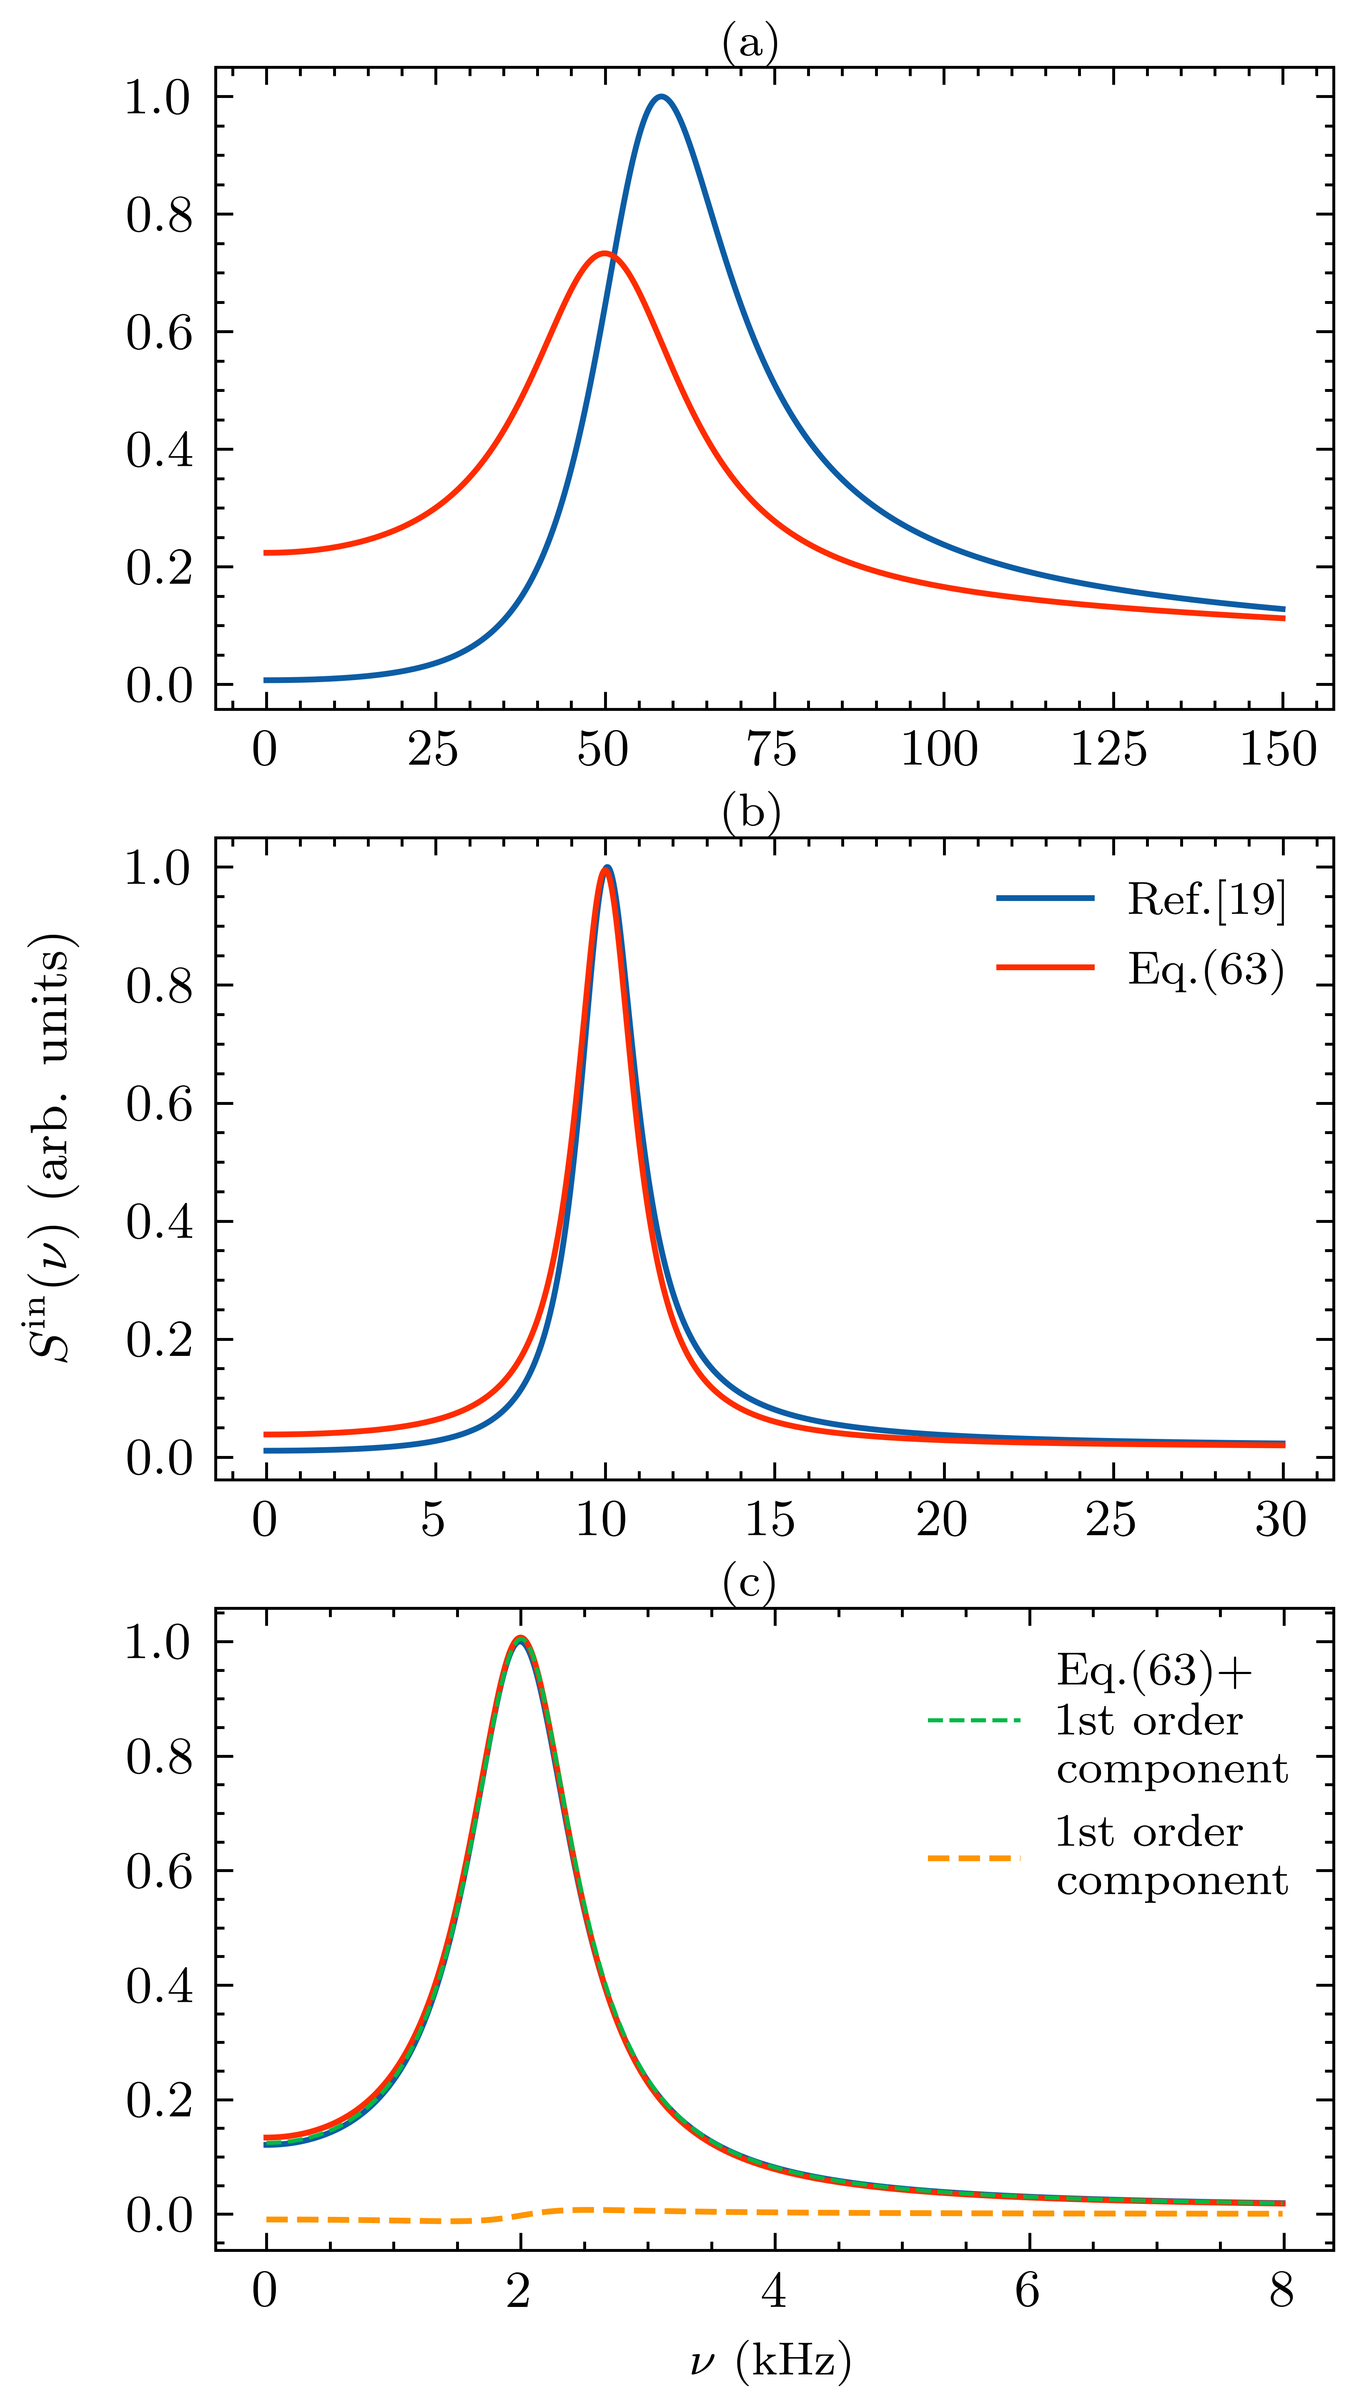
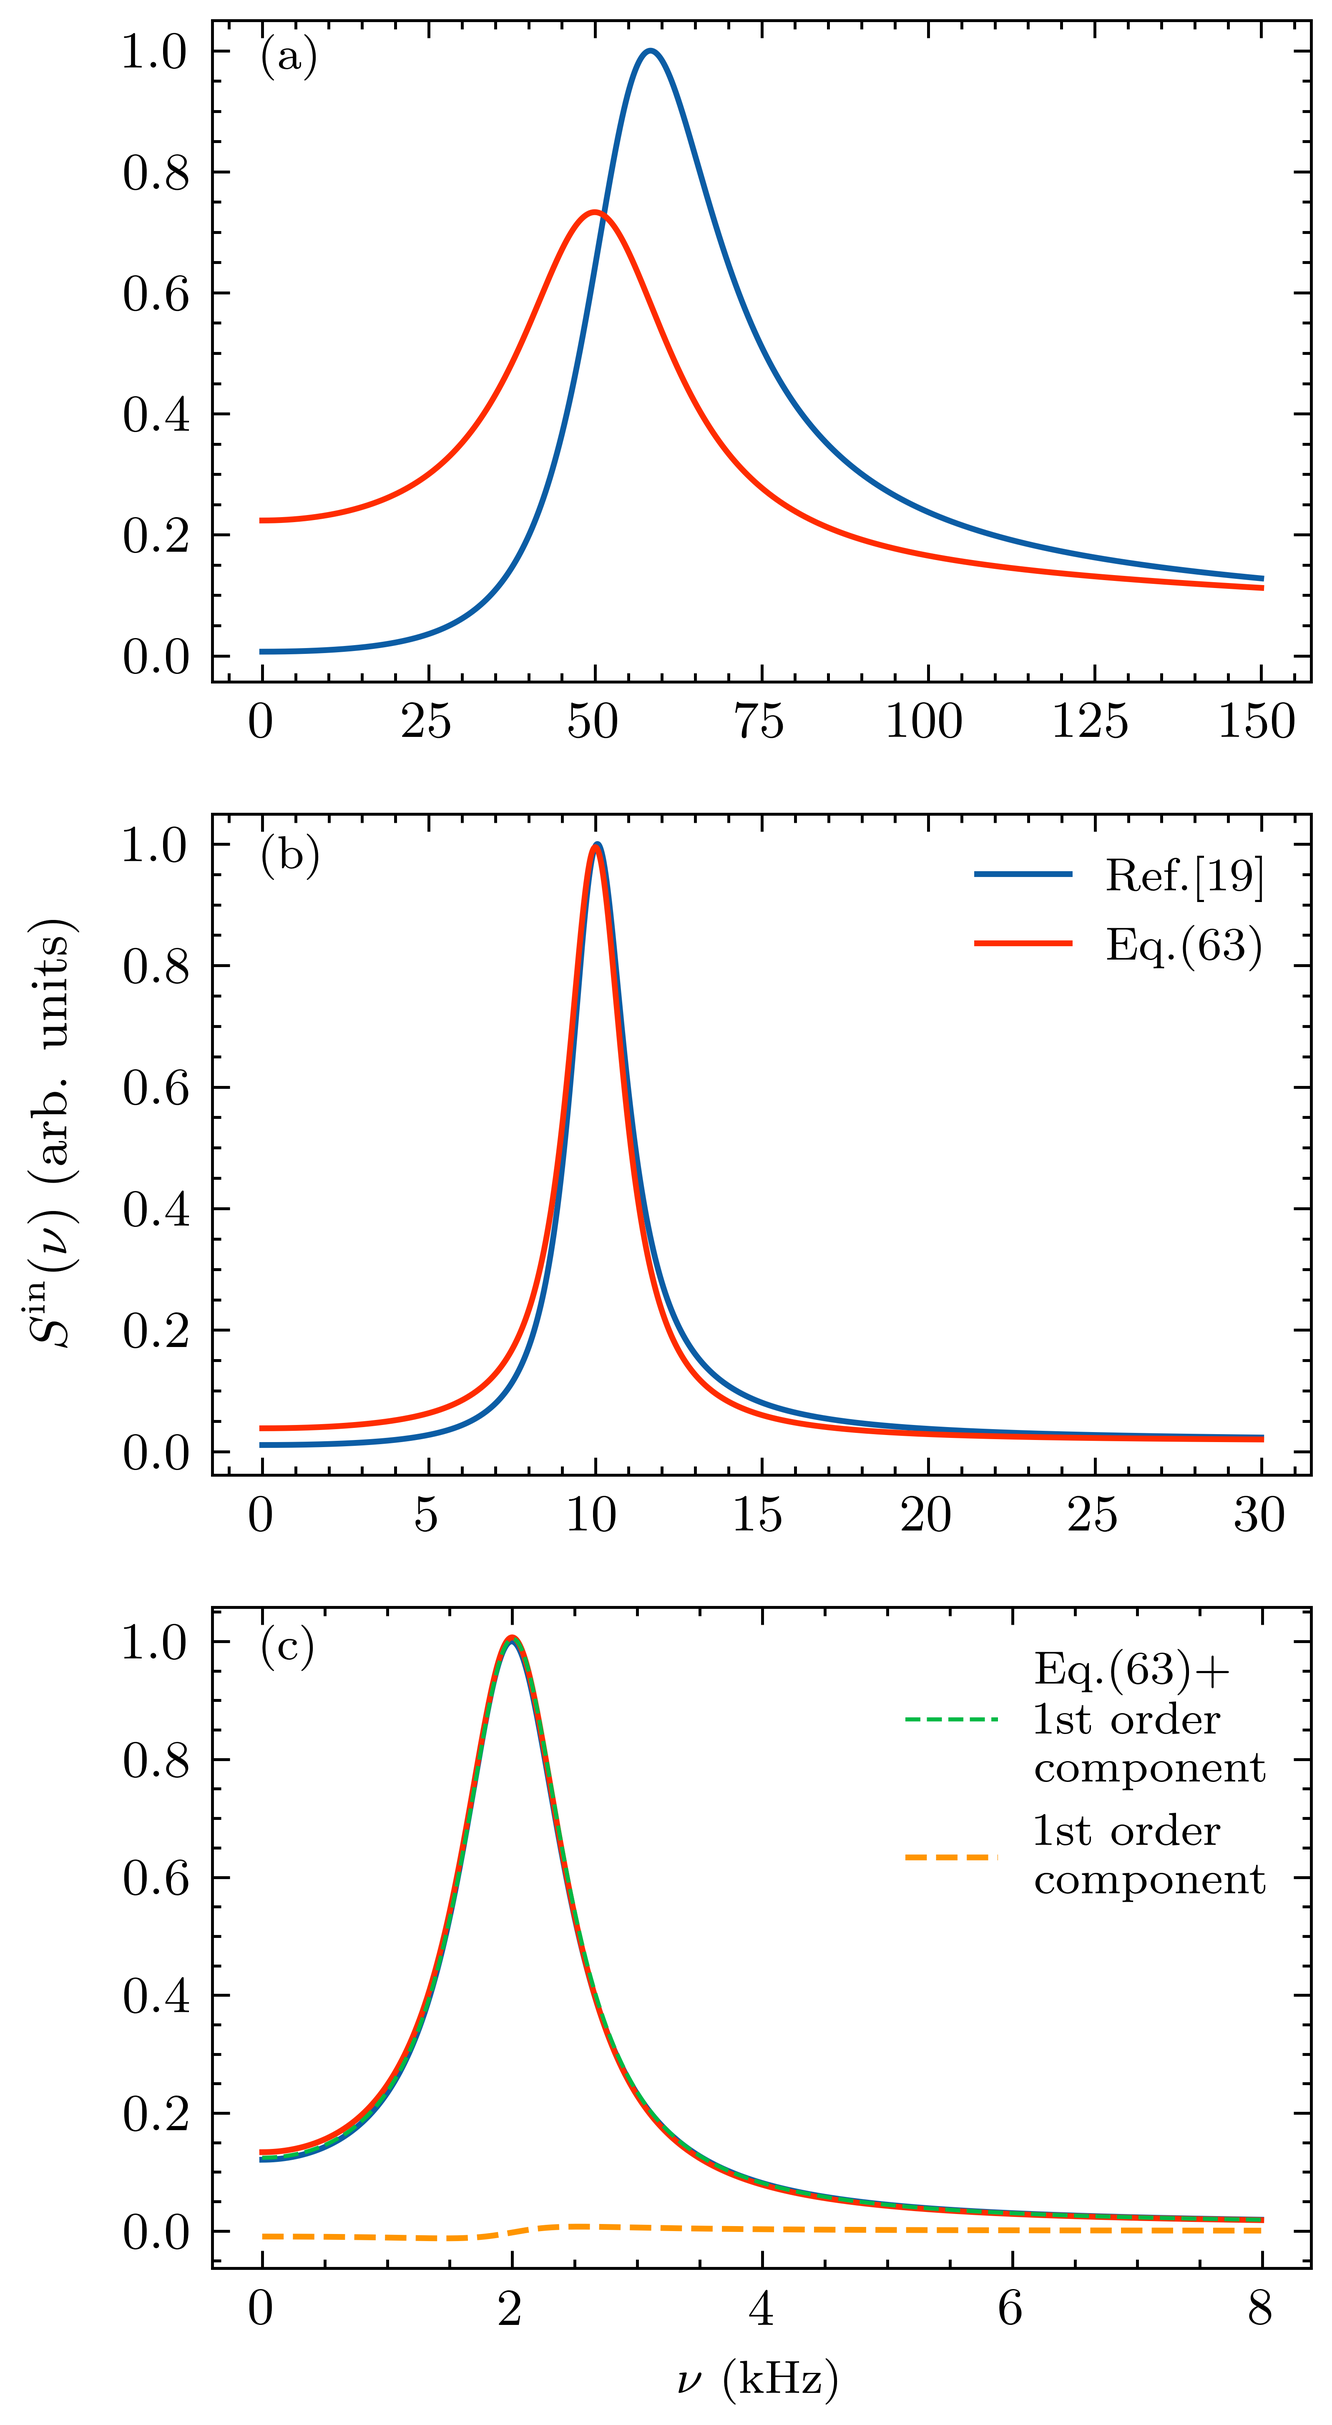
1

diff --git a/Simulation_of_DME/Evolution.py b/Simulation_of_DME/Evolution.py
@@ -5,17 +5,140 @@ import matplotlib.pyplot as plt
 from spin_operators_of_2or1_alkali_metal_atoms import spin_operators_of_2or1_alkali_metal_atoms
 from alkali_atom_uncoupled_to_coupled import alkali_atom_uncoupled_to_coupled
 from qutip import *
-from Master_equation import master_equation
 from scipy.linalg import *
 import numpy as np
 from matplotlib import ticker
-
+from tqdm import trange
+import scienceplots
 
 T1=100000
 T2=8000
 T3=800
 
+def master_equation(I,Rse,omega_0,T,N):
+    a = round(I + 1 / 2)
+    b = round(I - 1 / 2)
 
+    # --------------------------------Generate the angular momentum operators-----------------------------------#
+    U = alkali_atom_uncoupled_to_coupled(round(2 * I))
+    ax, ay, az, bx, by, bz = spin_operators_of_2or1_alkali_metal_atoms(1, I)
+    Sx = np.kron(np.eye(round(2 * I + 1)), np.array(1 / 2 * sigmax().full()))
+    Sx = U.T.conjugate() @ Sx @ U
+    Sy = np.kron(np.eye(round(2 * I + 1)), np.array(1 / 2 * sigmay().full()))
+    Sy = U.T.conjugate() @ Sy @ U
+    Sz = np.kron(np.eye(round(2 * I + 1)), np.array(1 / 2 * sigmaz().full()))
+    Sz = U.T.conjugate() @ Sz @ U
+
+    # --------------------------------Characterize interactions envolved-----------------------------------#
+    # omega_0 = 0.01
+    Rop =0 #0.1
+    Rsd =0 #50/1e4
+    sx=1/np.sqrt(2)
+    sz=1/np.sqrt(2)
+    # --------------------------------Define the initial state-----------------------------------#
+    theta = np.pi / 4
+    phi = np.pi / 4
+    a_theta = spin_Jx(a) * np.sin(theta) * np.cos(phi) + spin_Jy(a) * np.sin(theta) * np.sin(phi) + spin_Jz(a) * np.cos(
+        theta)
+    b_theta = spin_Jx(b) * np.sin(theta) * np.cos(phi) + spin_Jy(b) * np.sin(theta) * np.sin(phi) + spin_Jz(b) * np.cos(
+        theta)
+    qa, va = np.linalg.eig(np.array(a_theta.full()))
+    qb, vb = np.linalg.eig(np.array(b_theta.full()))
+    v = block_diag(va, vb)
+    q = np.hstack((qa, qb))
+    Rho_ini = np.zeros(2 * (a + b + 1))
+
+    # # -----------------spin temperature state-----------------#
+    P = 0.99
+    beta = np.log((1 + P) / (1 - P))
+    for i in np.arange(0, 2 * (a + b + 1), 1):
+        Rho_ini = Rho_ini + np.exp(beta * q[i]) * v[:, [i]] * v[:, [i]].T.conjugate()
+    Rho_ini = Rho_ini / np.trace(Rho_ini)
+
+    # -----------------eigenstates-----------------#
+
+    # Rho_ini = np.outer(np.array([0, 1, 0, 0, 0, 0, 0, 0]), np.array([0, 1, 0, 0, 0, 0, 0, 0]))
+
+    # --------------------------------------Evolution under hyperfine effect, etc.--------------------------------#
+    Rhot = Rho_ini
+    dt = 0.01
+    t = np.arange(0, T, dt)
+    hyperfine = block_diag(np.ones((2 * a + 1, 2 * a + 1)), np.ones((2 * b + 1, 2 * b + 1)))  # 一个原子
+    MSx = np.zeros(round(T / dt))
+    MSz = np.zeros(round(T / dt))
+    V = np.zeros(round(T / dt))
+
+    H = omega_0 * (az - bz)  # 投影定理
+    q, v = np.linalg.eig(H)
+    evolving_B = v @ np.diag(np.exp(-1j * q * dt)) @ np.linalg.inv(v)
+    for n in trange(0, round(T / dt), 1):
+        # -----------------Evolution-----------------#
+        if n==round(T / dt)/N:
+            Rop = 0.0
+        x1 = Rhot @ Sx
+        x2 = Rhot @ Sy
+        x3 = Rhot @ Sz
+        AS = 3 / 4 * Rhot - (Sx @ x1 + Sy @ x2 + Sz @ x3)
+        alpha = Rhot - AS
+        mSx = np.trace(x1)
+        mSy = np.trace(x2)
+        mSz = np.trace(x3)
+        mSS = mSx * Sx + mSy * Sy + mSz * Sz
+        ER = -Rsd * AS
+        OP = Rop * (2 * alpha @ (sx*Sx+sz*Sz) - AS)
+
+        Rhot = evolving_B @ Rhot @ evolving_B.T.conjugate()  # Zeeman effect
+
+        Rhot = Rse * (alpha + 4 * alpha @ mSS - Rhot) * dt + (
+                ER + OP) * dt + Rhot
+        Rhot = hyperfine * Rhot
+        # -----------------Observables-----------------#
+        MSz[n] = mSz
+        MSx[n] = np.sqrt(mSx**2+mSy**2)
+        # Vx = np.trace(Rhot @ ((ax + bx) @ (ax + bx) + (ay + by) @ (ay + by) + (az + bz) @ (az + bz)))
+        # V[n] = Vx
+
+    # ---------------------------Bloch Equation-----------------------------------
+    Rop =0 #0.1
+    transverse = np.zeros(round(T / dt))
+    longitude = np.zeros(round(T / dt))
+    Px = P * np.sin(theta)
+    Pz = P * np.cos(theta)
+    Py = 0
+    for n in np.arange(0, round(T / dt), 1):
+        if n==round(T / dt)/N:
+            Rop = 0.0
+        transverse[n] = np.sqrt(Px**2+Py**2)
+        longitude[n] = Pz
+
+        eta=(5+3*P**2)/(1-P**2)
+        kappa=1/8*5/eta*(1+0.03885952*P**2+0.25893367*P**4+0.16693826*P**6-0.33048905*P**8+0.14710879*P**10)
+
+        qnm = 2 * (3 + P ** 2) / (1 + P ** 2)
+        Qnm = 2 * (3 + P ** 4) / ((1 + P ** 2) ** 2)
+        Gamma = 4*eta/(1+eta)**3/kappa*omega_0**2* qnm / Qnm
+        # xiao
+        # qnm = 2 * (3 + P ** 2) / (1 + P ** 2)
+        # Qnm = 2 * (3 + P ** 4) / ((1 + P ** 2) ** 2)
+        # Gamma = (4 * (-4 + qnm) * (4 + qnm) * omega_0 ** 2 / 3 / qnm ** 2 /qnm*6) *qnm/6* qnm / Qnm
+
+        T2 = (1 - ((qnm - Qnm) / qnm) * Pz ** 2 / P ** 2) * Gamma
+        T1 = T2-Gamma/qnm*Qnm
+
+        Pz = Pz + (-1 / Qnm * (Rsd + Rop) * Pz + Rop *
+                ((1 / Qnm - 1 / qnm) * (Px *sx+Pz*sz)*(Pz-Px *sx*sz-Pz*sz*sz) / P ** 2)+Rop *sz*
+                ((1 / Qnm  * (Px *sx+Pz*sz)**2/ P ** 2)+(1 / qnm  * (1-(Px *sx+Pz*sz)**2/ P ** 2)))
+                - Pz * T1) * dt
+        Px = Px + (-1 / Qnm * (Rsd + Rop) * Px +Rop *
+                ((1 / Qnm - 1 / qnm) * (Px *sx+Pz*sz)*(Px-Px *sx*sx-Pz*sz*sx) / P ** 2)+Rop *sx*
+                ((1 / Qnm  * (Px *sx+Pz*sz)**2/ P ** 2)+(1 / qnm  * (1-(Px *sx+Pz*sz)**2/ P ** 2)))
+                - 1 / qnm * omega_0 * 4 * Py - Px * T2) * dt
+        Py = Py + (-1 / Qnm * (Rsd + Rop) * Py + Rop * (
+                1 / Qnm - 1 / qnm) * (Px*sx+Pz*sz) / P ** 2 * Py + 1 / qnm * omega_0 * 4 * Px - Py * T2) * dt
+        P = np.sqrt(Px ** 2 + Py ** 2 + Pz ** 2)
+    Px=2*MSx
+    Pz=2*MSz
+    return Px, Pz, transverse, longitude
 dt=0.01
 Px1,Pz1,transverse1,longitude1=master_equation(3/2,1,0.01,T1,10)
 Px2,Pz2,transverse2,longitude2=master_equation(3/2,1,0.05,T2,10)
@@ -53,7 +176,7 @@ with plt.style.context(['science']):
     ax2.plot(tt2, Pz2)
     ax2.plot(tt2, transverse2)
     ax2.plot(tt2, longitude2)
-    ax2.legend(["$P_{\perp}^{\mathrm{DME}}$", "$P_z^{\mathrm{DME}}$", "$P_{\perp}^{\mathrm{EBE}}$", "$P_z^{\mathrm{EBE}}$"],
+    ax2.legend(["$P_{\perp}^{\mathrm{DME}}$", "$P_z^{\mathrm{DME}}$", "$P_{\perp}^{\mathrm{BE}}$", "$P_z^{\mathrm{BE}}$"],
                loc='lower right', prop={'size': 8})
 
     # ax2.set_xlabel('$t$ ($1/R_{\mathrm{se}}$)', fontsize=9)

diff --git a/EHBE/plotofGamma.py b/EHBE/plotofGamma.py
@@ -41,39 +41,39 @@ kappa3=fp3/DD3
 plt.style.use(['science'])
 with plt.style.context(['science']):
     plt.rc('font',family='Times New Roman')
-    fig = plt.figure(figsize=(3.6, 6)) 
-    # ax4 = fig.add_subplot(224)
-    # pp,=ax4.plot(PP1,epsilon1)
-    # pp2,=ax4.plot(PP2,epsilon2)
-    # pp3,=ax4.plot(PP3,epsilon3)
+    fig = plt.figure(figsize=(3.4, 8)) 
+    ax4 = fig.add_subplot(414)
+    pp,=ax4.plot(PP1,epsilon1)
+    pp2,=ax4.plot(PP2,epsilon2)
+    pp3,=ax4.plot(PP3,epsilon3)
 
-    # # ax4.plot(PP3,-fp3*fm3/DD3/zzz*0+1,linestyle='dotted')
-    # ax4.set_xlim([0.,0.99])
-    # ax4.set_ylim([-0.0001,0.002])
-    # # ax4.set_ylim([-0.1,0.1])
-    # ax4.set_ylabel('$\\varepsilon$')
-    # # ax4.tick_params(axis='x', labelsize='0.9' )
-    # # ax4.tick_params(axis='y', labelsize='0.9' )
-    # ax4.set_yticks([0,0.001,0.002]) # 设置刻度
-    # ax4.set_xlabel('$P$')
+    # ax4.plot(PP3,-fp3*fm3/DD3/zzz*0+1,linestyle='dotted')
+    ax4.set_xlim([0.,1])
+    ax4.set_ylim([-0.0001,0.002])
+    # ax4.set_ylim([-0.1,0.1])
+    ax4.set_ylabel('$\\varepsilon$', fontsize=9)
+    ax4.tick_params(axis='x', labelsize='9' )
+    ax4.tick_params(axis='y', labelsize='9' )
+    ax4.set_yticks([0,0.001,0.002]) # 设置刻度
+    ax4.set_xlabel('$P$', fontsize=9)
 
-    # ax4.yaxis.set_major_formatter(ticker.PercentFormatter(xmax=1, decimals=1))
-    # ax4.text(0.45, 0.00202, '(d)')
+    ax4.yaxis.set_major_formatter(ticker.PercentFormatter(xmax=1, decimals=1))
+    ax4.text(0.9, 0.00175, '(d)', fontsize=9)
 
-    ax3 = fig.add_subplot(313)
+    ax3 = fig.add_subplot(413)
     pp,=ax3.plot(PP1,fp1/DD1)
     pp2,=ax3.plot(PP2,fp2/DD2)
     pp3,=ax3.plot(PP3,fp3/DD3)
-    ax3.set_ylabel('$\\tilde{\kappa}^+$')
-    # ax3.tick_params(axis='x', labelsize='0.9' )
-    # ax3.tick_params(axis='y', labelsize='0.9' )
-    ax3.text(0.45, 0.234, '(c)')
+    ax3.set_ylabel('$\\tilde{\kappa}^+$', fontsize=9)
+    ax3.tick_params(axis='x', labelsize='9' )
+    ax3.tick_params(axis='y', labelsize='9' )
+    ax3.text(0.9, 0.2, '(c)', fontsize=9)
     ax3.set_xlim([0.,1])
-    ax3.set_xlabel('$P$')
+    # ax3.set_xlabel('$P$')
 
-    # ax3.axes.xaxis.set_ticklabels([])
+    ax3.axes.xaxis.set_ticklabels([])
 
-    ax1 = fig.add_subplot(311)
+    ax1 = fig.add_subplot(411)
     ax1.plot(PP1, DD1)
     ax1.plot(PP2, DD2)
     ax1.plot(PP3, DD3)
@@ -81,16 +81,16 @@ with plt.style.context(['science']):
     # ax3.plot(PP1, xiao,linestyle='dotted')
     # ax3.plot(PP2, Gammap2,linestyle='dotted')
     # ax3.plot(PP3, Gammap3,linestyle='dotted')
-    ax1.text(0.45, 0.049, '(a)')
+    ax1.text(0.9, 0.0425, '(a)', fontsize=9)
     ax1.set_xlim([0.003,1])
     # ax3.set_ylim([0,0.1])
 
-    ax1.set_ylabel('$\\tilde{\Gamma}^+_{\perp}$ $(\omega_e^2/R_{\\rm{se}})$')
-    # ax1.tick_params(axis='x', labelsize='0.9' )
-    # ax1.tick_params(axis='y', labelsize='0.9' )
+    ax1.set_ylabel('$\\tilde{\Gamma}^+_{\perp}$ $(\omega_e^2/R_{\\rm{se}})$', fontsize=9)
+    ax1.tick_params(axis='x', labelsize='9' )
+    ax1.tick_params(axis='y', labelsize='9' )
     ax1.axes.xaxis.set_ticklabels([])
 
-    ax2 = fig.add_subplot(312)
+    ax2 = fig.add_subplot(412)
     p21=ax2.plot(PP1, z)
     p22=ax2.plot(PP2, zz)
     p23=ax2.plot(PP3, zzz)
@@ -99,16 +99,17 @@ with plt.style.context(['science']):
     # ax3.plot(PP1, Gammam1,linestyle='dotted')
     # ax3.plot(PP2, Gammam2,linestyle='dotted')
     # ax3.plot(PP3, Gammam3,linestyle='dotted')
-    ax3.legend([pp, pp2, pp3],["$ I=3/2$", "$ I=5/2$", "$ I=7/2$"],
-               loc='upper right')
-    ax2.set_ylabel('$\\tilde{\Gamma}_{\perp}^- $ ($R_{\\rm{se}}$) ')
-    # ax2.tick_params(axis='x', labelsize='0.9' )
-    # ax2.tick_params(axis='y', labelsize='0.9' )
-    ax2.text(0.45,0.925, '(b)')
+    ax4.legend([pp, pp2, pp3],["$ I=3/2$", "$ I=5/2$", "$ I=7/2$"],
+               loc='upper left',fontsize='9')
+    ax2.set_ylabel('$\\tilde{\Gamma}_{\perp}^- $ ($R_{\\rm{se}}$) ', fontsize=9)
+    ax2.tick_params(axis='x', labelsize='9' )
+    ax2.tick_params(axis='y', labelsize='9' )
+    ax2.text(0.9,0.915, '(b)', fontsize=9)
     # p24=ax3.plot(PP, h*np.ones(bound),linestyle='dotted')
     # p25=ax3.plot(PP, hh*np.ones(bound),linestyle='dotted')
     # p26=ax3.plot(PP, hhh*np.ones(bound),linestyle='dotted')
-    ax2.set_xlim([0.,0.99])
+    ax2.set_xlim([0.,1])
+    ax2.set_ylim([0.66,0.95])
     # ax4.set_xlim([0,1])
     ax2.axes.xaxis.set_ticklabels([])
     # ax3.axes.xaxis.set_ticklabels([])

diff --git a/Simulation_of_DME/Evolution2.py b/Simulation_of_DME/Evolution2.py
@@ -45,7 +45,7 @@ with plt.style.context(['science']):
 
     ax1.set_ylabel('Polarization', fontsize=8)
     # ax1.axes.xaxis.set_ticklabels([])
-    ax1.text(7200, 0.63, '(a)',fontsize=8)
+    ax1.text(7200, 0.62, '(a)',fontsize=8)
     ax1.tick_params(axis='both', which='major', labelsize=8)
     ax1.tick_params(axis='both', which='minor', labelsize=8)
 
@@ -58,7 +58,7 @@ with plt.style.context(['science']):
     # ax2.set_xlabel('$t$ ($1/R_{\mathrm{se}}$)', fontsize=9)
     ax2.set_ylabel('Polarization ', fontsize=8)
     # ax2.set_xlim([0,10000])
-    ax2.text(4500, 0.63, '(b)',fontsize=8)
+    ax2.text(4500, 0.62, '(b)',fontsize=8)
     # ax2.axes.xaxis.set_ticklabels([])
     ax1.tick_params(axis='both', which='major', labelsize=8)
     ax1.tick_params(axis='both', which='minor', labelsize=8)
@@ -75,12 +75,12 @@ with plt.style.context(['science']):
     # ax3.set_xlabel('$t$ ($1/R_{\mathrm{se}}$)', fontsize=8)
     ax3.set_ylabel('Polarization ', fontsize=8)
     # ax3.set_xlim([0,2000])
-    ax3.text(3600, 0.63, '(c)', fontsize=8)
+    ax3.text(3600, 0.62, '(c)', fontsize=8)
 
     ax3.tick_params(axis='both', which='major', labelsize=8)
     ax3.tick_params(axis='both', which='minor', labelsize=8)
     ax3.set_xlabel('$t$ ($1/R_{\mathrm{se}}$)', fontsize=8)
-    ax3.legend(["$P_{\perp}^{\mathrm{DME}}$", "$P_z^{\mathrm{DME}}$", "$P_{\perp}^{\mathrm{EBE}}$", "$P_z^{\mathrm{EBE}}$"],
+    ax3.legend(["$P_{\perp}^{\mathrm{DME}}$", "$P_z^{\mathrm{DME}}$", "$P_{\perp}^{\mathrm{BE}}$", "$P_z^{\mathrm{BE}}$"],
                loc='center right', prop={'size': 7})
     
 

diff --git a/my_functions/Master_equation.py b/my_functions/Master_equation.py
@@ -33,8 +33,8 @@ def master_equation(I,Rse,omega_0,T,N):
 
     # --------------------------------Characterize interactions envolved-----------------------------------#
     # omega_0 = 0.01
-    Rop = 0.1
-    Rsd = 50/1e4
+    Rop =0.1
+    Rsd =50/1e4
     sx=1/np.sqrt(2)
     sz=1/np.sqrt(2)
     # --------------------------------Define the initial state-----------------------------------#
@@ -51,7 +51,7 @@ def master_equation(I,Rse,omega_0,T,N):
     Rho_ini = np.zeros(2 * (a + b + 1))
 
     # # -----------------spin temperature state-----------------#
-    P = 0.00000000000001
+    P = 0.99
     beta = np.log((1 + P) / (1 - P))
     for i in np.arange(0, 2 * (a + b + 1), 1):
         Rho_ini = Rho_ini + np.exp(beta * q[i]) * v[:, [i]] * v[:, [i]].T.conjugate()
@@ -101,7 +101,7 @@ def master_equation(I,Rse,omega_0,T,N):
         # V[n] = Vx
 
     # ---------------------------Bloch Equation-----------------------------------
-    Rop = 0.1
+    Rop =0.1
     transverse = np.zeros(round(T / dt))
     longitude = np.zeros(round(T / dt))
     Px = P * np.sin(theta)

diff --git a/Noise/Comparison.py b/Noise/Comparison.py
@@ -56,7 +56,7 @@ PSD11,PSD21,revise1=comparison(Rse/100,omega1)
 plt.style.use(['science'])
 with plt.style.context(['science']):
     plt.rc('font',family='Times New Roman')
-    fig = plt.figure(figsize=(3.46, 6.8))
+    fig = plt.figure(figsize=(3.4, 7))
     ax1= fig.add_subplot(313)
     p1,=ax1.plot(omega1, PSD11/np.max(PSD11))
     ax1.plot([], [])
@@ -112,15 +112,9 @@ with plt.style.context(['science']):
                prop={'size': 8})
     ax3.tick_params(axis='x', labelsize='9' )
     ax3.tick_params(axis='y', labelsize='9' )
-    ax1.text(8*(0.9/2),1.08, '(c)',fontsize=8)
-    ax2.text(30*(0.9/2),1.07, '(b)',fontsize=8)
-    ax3.text(150*(0.9/2),1.07, '(a)',fontsize=8)
-
-
-
-
-
-
+    ax1.text(0,0.97, '(c)',fontsize=8)
+    ax2.text(0,0.96, '(b)',fontsize=8)
+    ax3.text(0,0.97, '(a)',fontsize=8)
     plt.savefig('Fig10_comparison.png', dpi=1000)
 plt.show()
 
